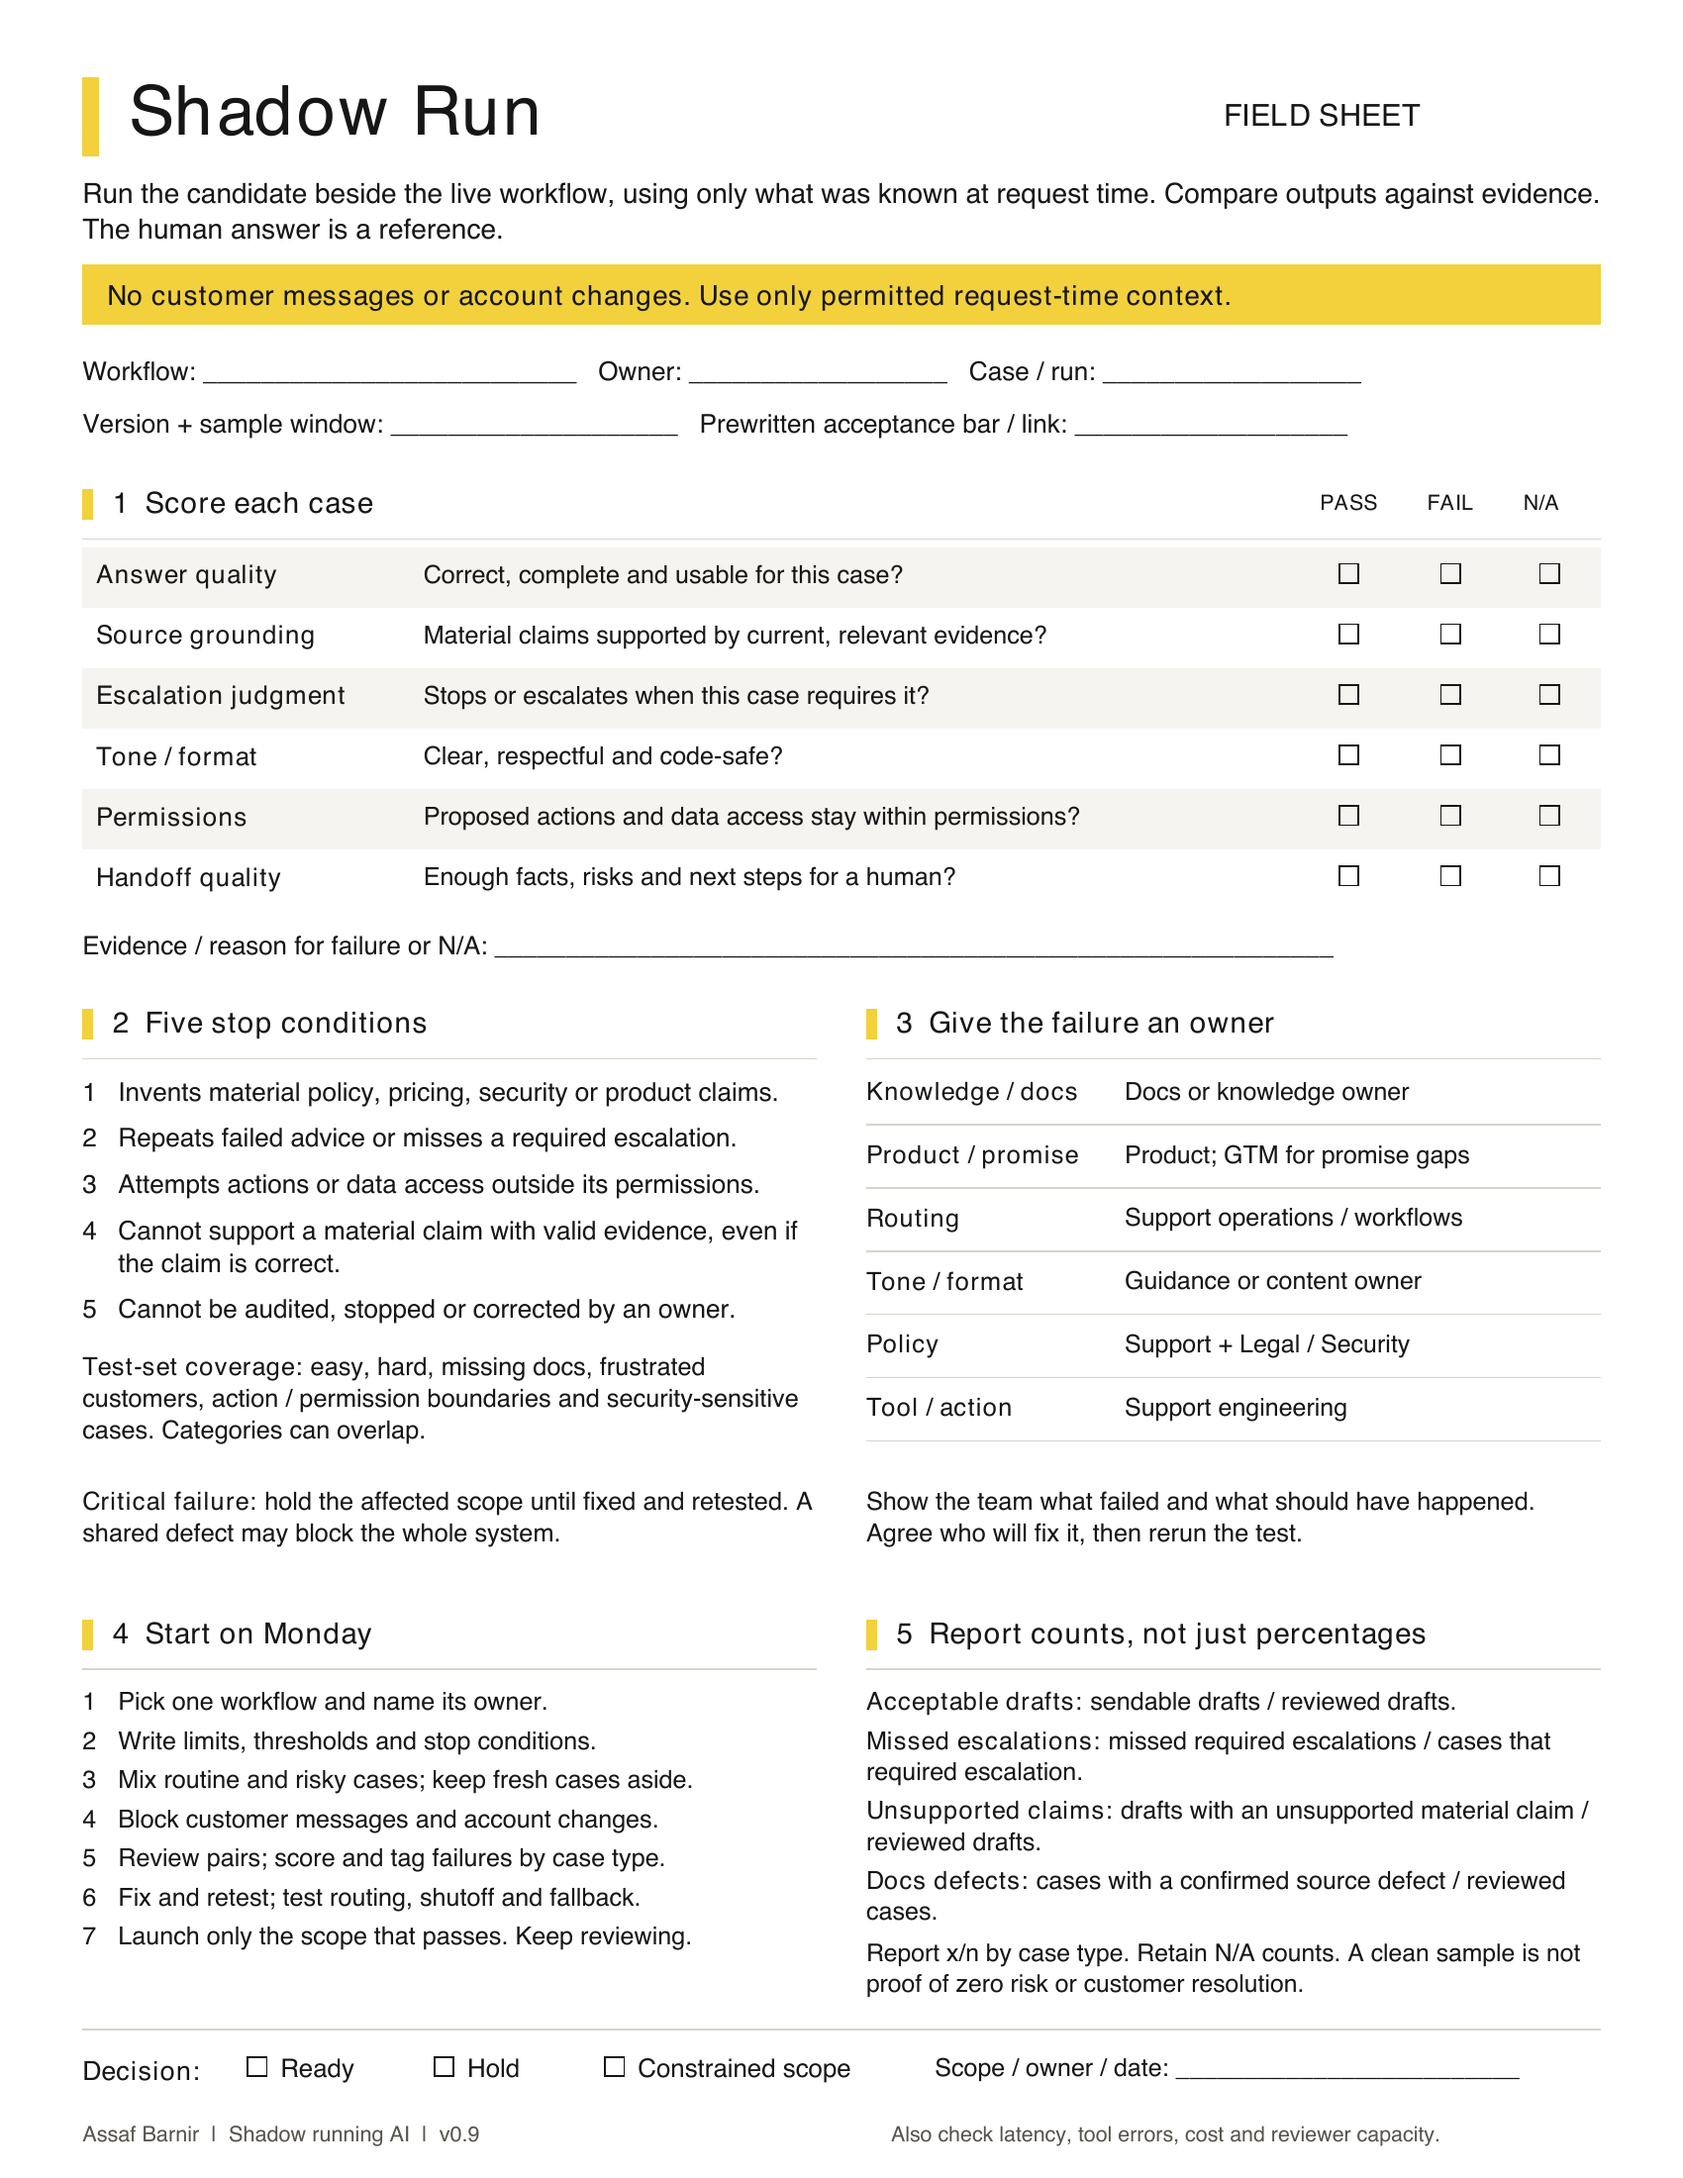
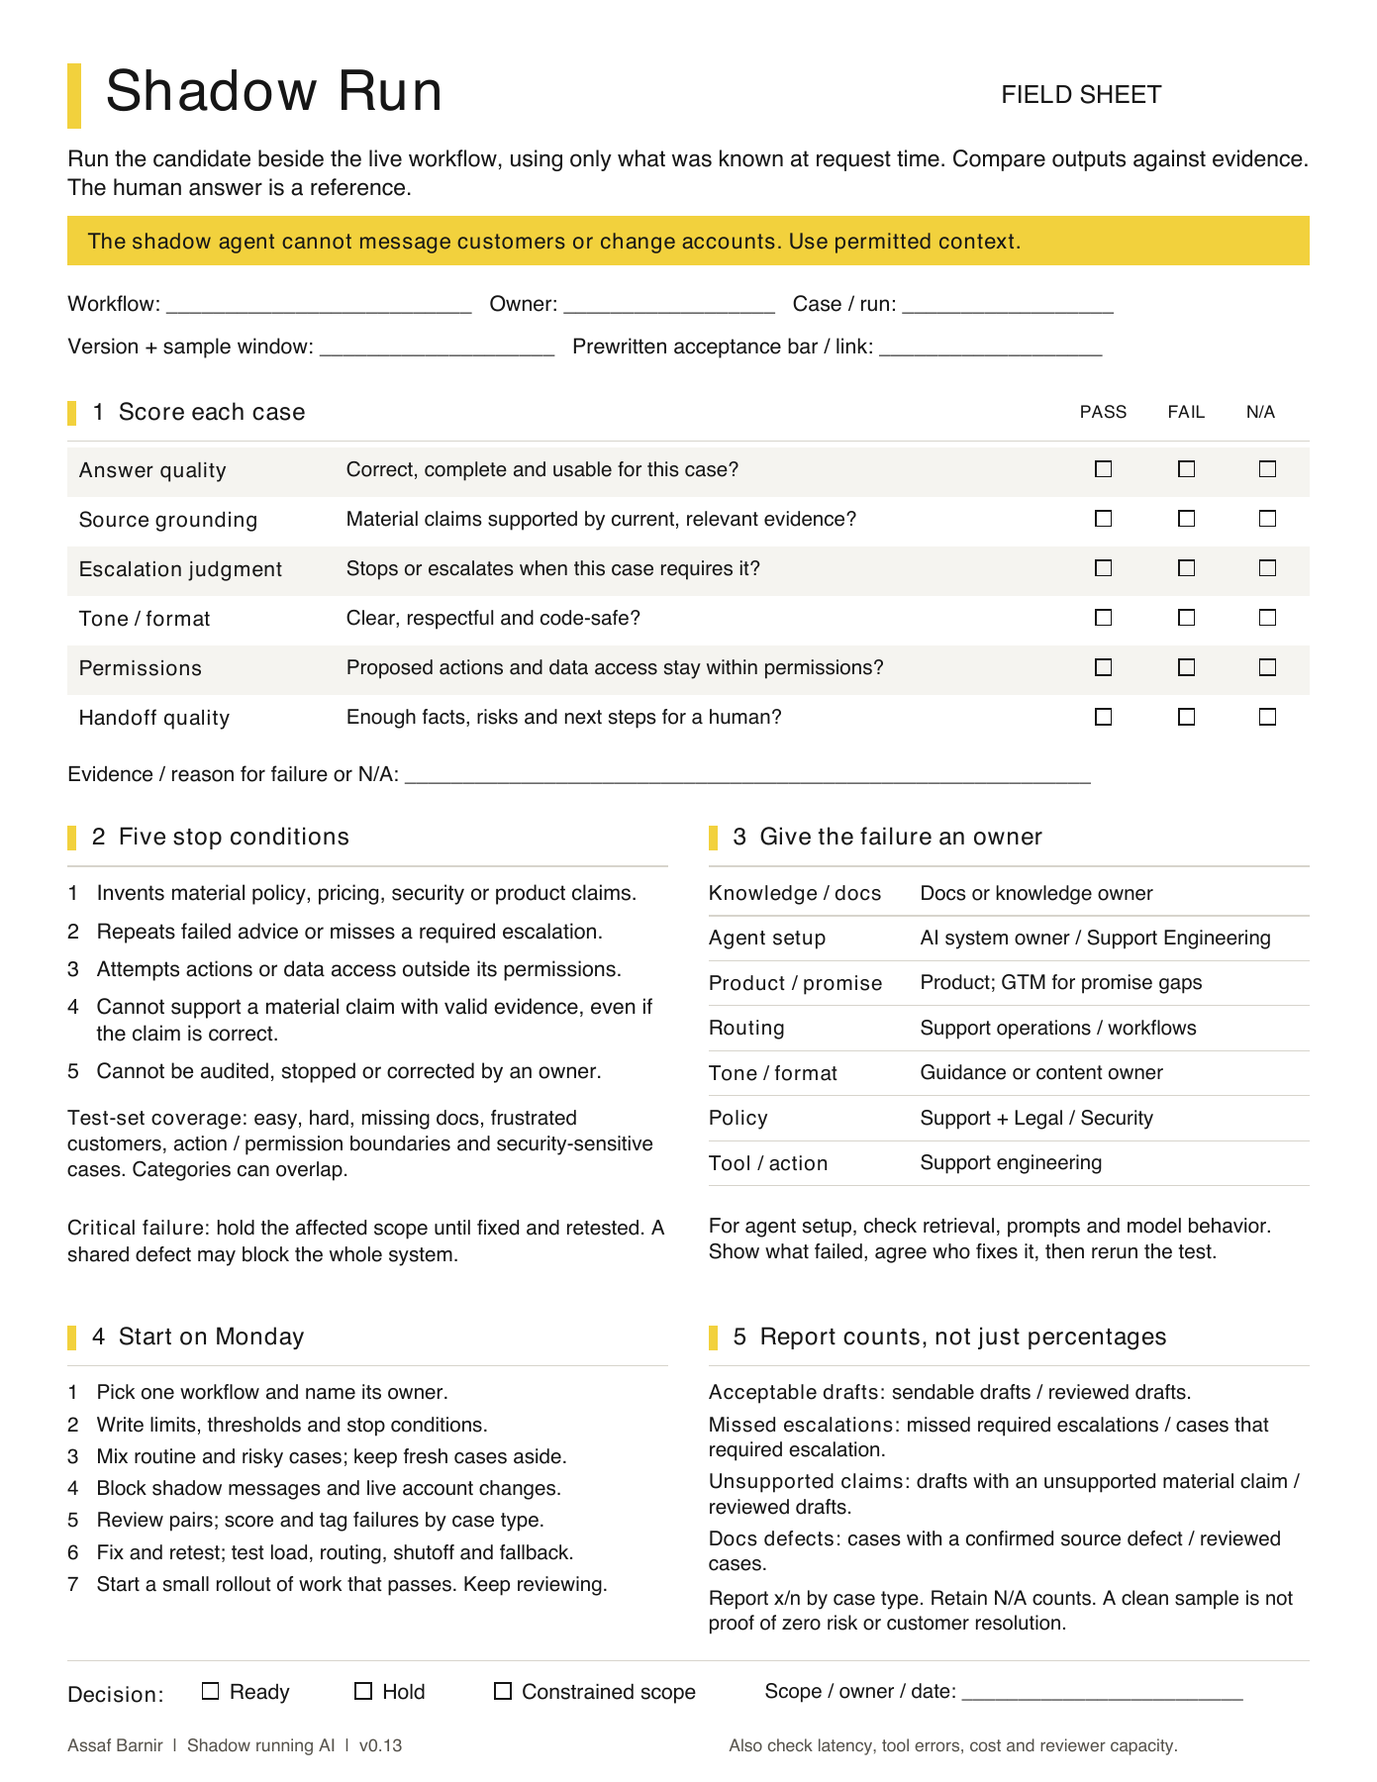
Publish Shadow Run field sheet v0.13 (#1)

diff --git a/docs/shadow-run/README.md b/docs/shadow-run/README.md
@@ -4,21 +4,21 @@ The one-page take-home from **Shadow running AI: The framework for safer AI adop
 
 ## Download the PDF
 
-**[Download the Shadow Run field sheet (PDF)](https://assafbar2.github.io/the-support-machine/shadow-run/Shadow-Run-Field-Sheet-v0.9.pdf)**
+**[Download the Shadow Run field sheet (PDF)](https://assafbar2.github.io/the-support-machine/shadow-run/Shadow-Run-Field-Sheet-v0.13.pdf)**
 
 One printable page: six checks, five stop conditions, who fixes each failure, a plan for Monday, and compact metric definitions.
 
-[![Preview of the one-page Shadow Run field sheet](field-sheet-preview.png)](https://assafbar2.github.io/the-support-machine/shadow-run/Shadow-Run-Field-Sheet-v0.9.pdf)
+[![Preview of the one-page Shadow Run field sheet](field-sheet-preview.png)](https://assafbar2.github.io/the-support-machine/shadow-run/Shadow-Run-Field-Sheet-v0.13.pdf)
 
 ## Use it with your team
 
 1. Pick one workflow and a person to run the test.
 2. Write down what must pass and what stops a launch.
 3. Include routine and risky cases. Keep some fresh.
-4. Block customer messages and account changes.
+4. Prevent the shadow agent from messaging customers or changing accounts.
 5. Review the answers. Record failures and results.
-6. Fix and retest. Check handoffs and the human fallback.
-7. Launch only the work that passes. Keep reviewing.
+6. Fix and retest. Test load, handoffs and the human fallback.
+7. Start a small rollout of the work that passes. Keep reviewing.
 
 The sheet records what happened inside the test. It does not prove customer resolution or zero risk.
 
@@ -28,4 +28,4 @@ The sheet records what happened inside the test. It does not prove customer reso
 - [Use the editable shadow-run scorecard](../../skills/the-support-machine/templates/shadow-run-scorecard.md)
 - [Back to the repository](../../README.md)
 
-Field sheet v0.9. The PDF is unchanged from the presentation handout.
+Field sheet v0.13, matching the v0.13 presentation. The ownership section now includes agent setup: retrieval, prompts and model behavior. The six checks and five stop conditions are unchanged.

diff --git a/README.md b/README.md
@@ -6,7 +6,7 @@ The manuscript is the story and philosophy. The skill is the operating system: i
 
 ## Shadow Run field sheet
 
-**Here for the talk? [Download the one-page field sheet](https://assafbar2.github.io/the-support-machine/shadow-run/Shadow-Run-Field-Sheet-v0.9.pdf).**
+**Here for the talk? [Download the one-page field sheet](https://assafbar2.github.io/the-support-machine/shadow-run/Shadow-Run-Field-Sheet-v0.13.pdf).**
 
 Six checks, five stop conditions, and a plan for Monday. [Preview the sheet and see how to use it](docs/shadow-run/).
 
